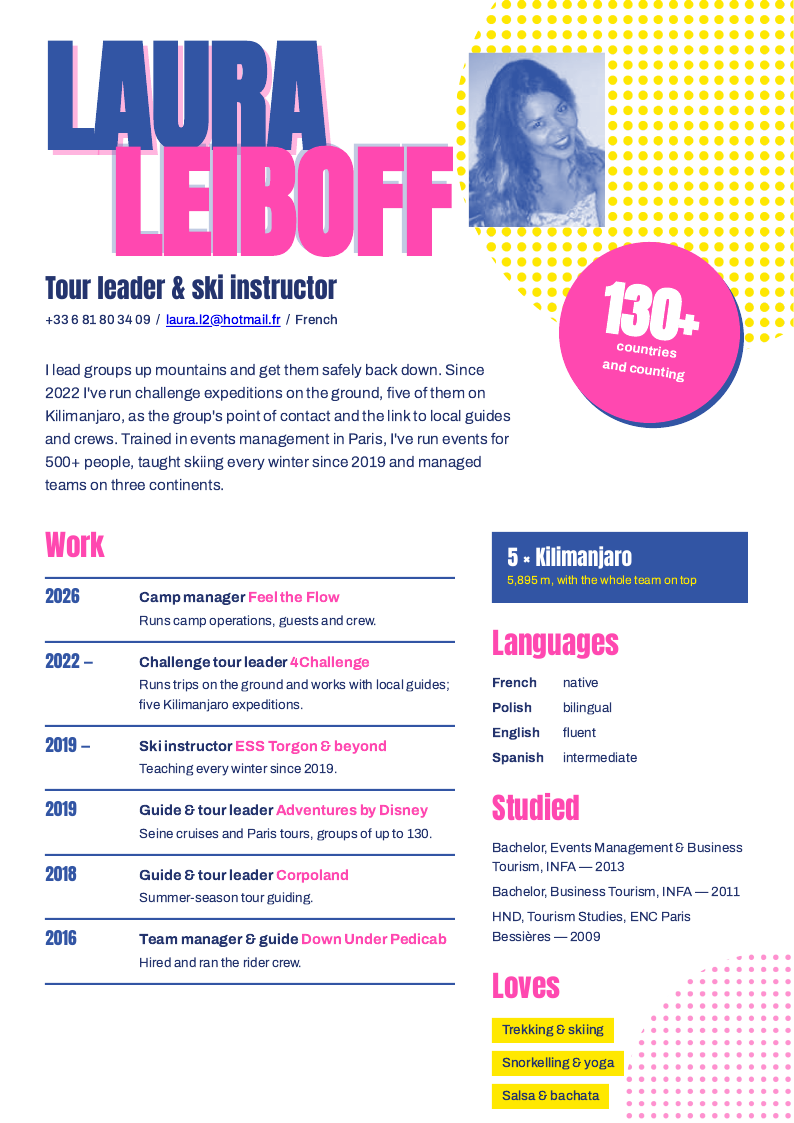
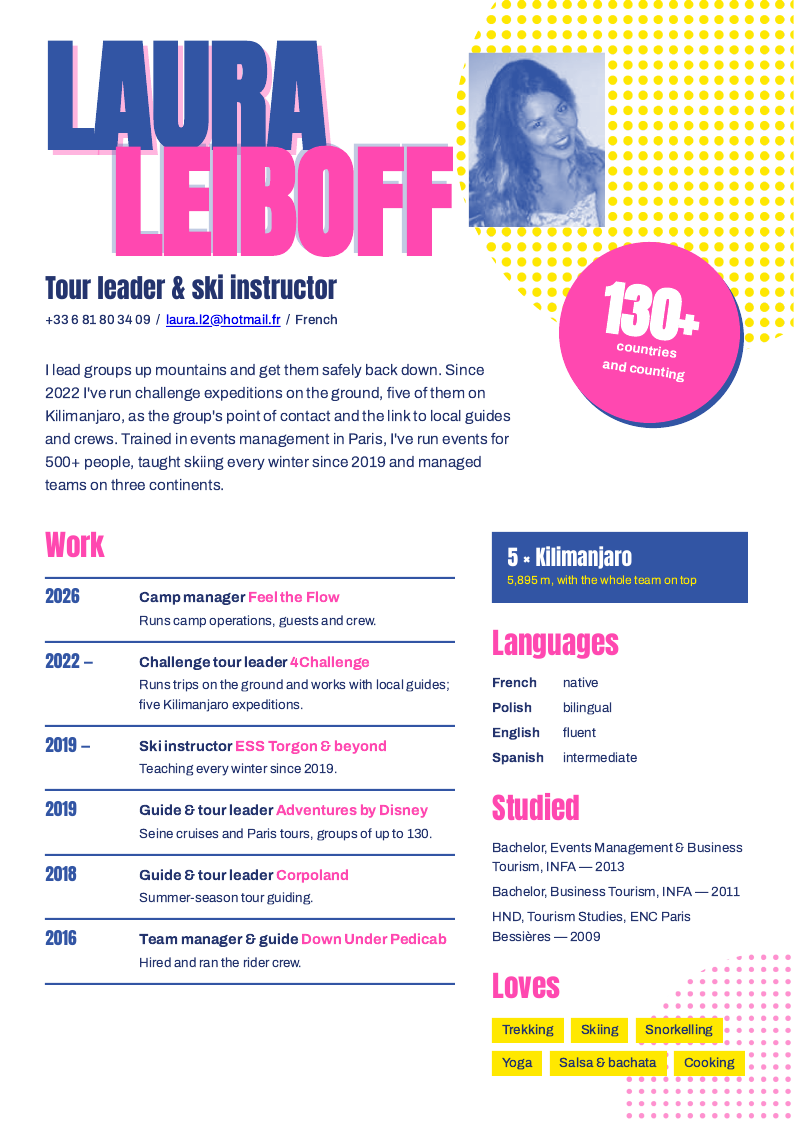
List interests individually instead of arbitrary pairs

Changed region(s): [[0.6045, 0.9038, 0.937, 0.9973]]

diff --git a/content.js b/content.js
@@ -15,7 +15,7 @@ window.CV = {
     ['English', 'Fluent'], ['Spanish', 'Intermediate']
   ],
   strengths: ['Running trips on the ground', 'Group leadership', 'Ski instruction', 'Events for 500+ people'],
-  interests: ['Trekking & skiing', 'Snorkelling & yoga', 'Salsa & bachata'],
+  interests: ['Trekking', 'Skiing', 'Snorkelling', 'Yoga', 'Salsa & bachata', 'Cooking'],
   education: [
     ['Bachelor, Events Management & Business Tourism', 'INFA', '2013'],
     ['Bachelor, Business Tourism', 'INFA', '2011'],
